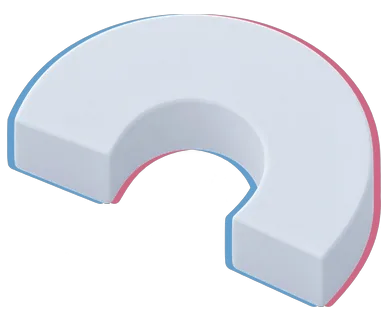
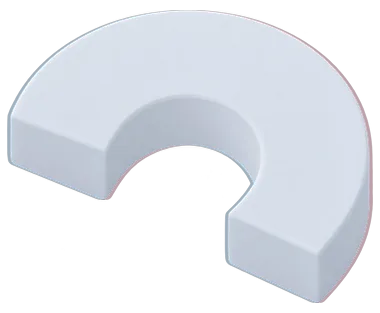
Fly-through: 70% softer — fainter, smaller up close, thinner colour split, less tilt
Claude-Session: https://claude.ai/code/session_01GbPopBS7Krv4g7w9keRb5z

diff --git a/src/styles/global.css b/src/styles/global.css
@@ -618,7 +618,7 @@ p {
   height: auto;
   opacity: 0;
   will-change: transform, opacity;
-  filter: drop-shadow(0 18px 28px rgba(30, 60, 120, 0.16));
+  filter: drop-shadow(0 12px 22px rgba(30, 60, 120, 0.08));
 }
 .roles__head {
   display: grid;
